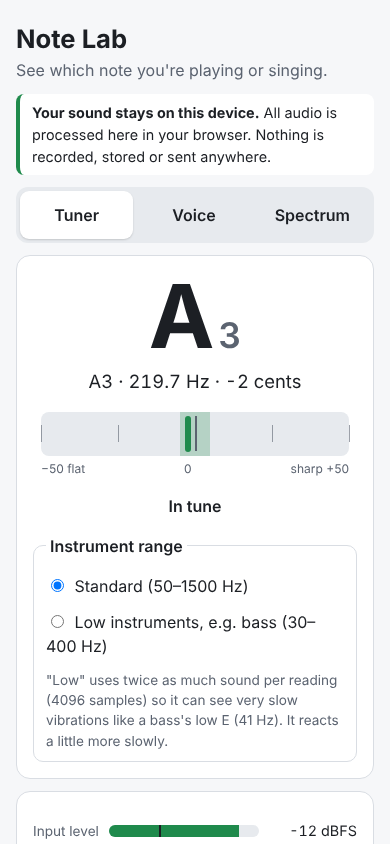
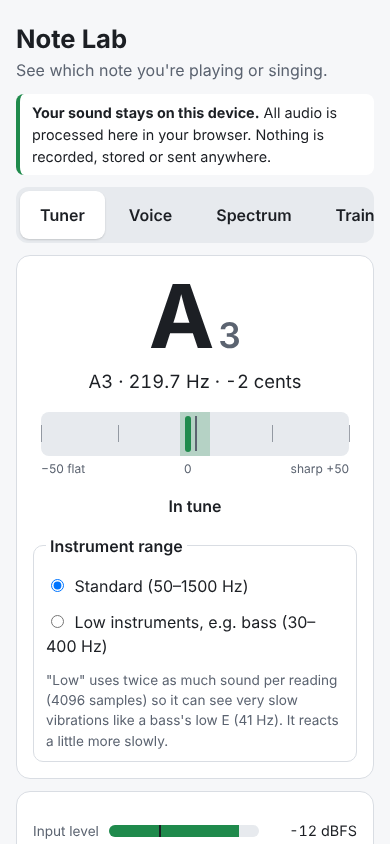
Add browser checks for ear training
Answers are checked against the frequencies actually played; scores
survive a reload; sing-back with a fake microphone singing C4 and
E4 (330 Hz) scores 0 and +2 cents.

Claude-Session: https://claude.ai/code/session_01SxLsZFKHC9uUtv3xK6kA73

Changed region(s): [[0.3385, 0.2464, 0.9538, 0.2773], [0.0923, 0.2464, 0.2769, 0.2773]]

diff --git a/tools/browser-test.js b/tools/browser-test.js
@@ -196,6 +196,75 @@ try {
     await browser.close();
   }
 
+  // 1f. Ear training: notes and intervals (no microphone needed).
+  {
+    const { browser, page, errors } = await openPage([], []);
+    // Record every frequency the page plays, so the test knows the right answer.
+    await page.evaluate(() => {
+      window.__played = [];
+      const original = AudioContext.prototype.createOscillator;
+      AudioContext.prototype.createOscillator = function () {
+        const osc = original.call(this);
+        const start = osc.start.bind(osc);
+        osc.start = (when) => { window.__played.push(osc.frequency.value); start(when); };
+        return osc;
+      };
+    });
+    const nameOf = (hz) => ['C', 'C#', 'D', 'D#', 'E', 'F', 'F#', 'G', 'G#', 'A', 'A#', 'B'][((Math.round(69 + 12 * Math.log2(hz / 440)) % 12) + 12) % 12];
+
+    await page.click('#tab-ear');
+    report(await page.isVisible('#ear-notes') && !(await page.isVisible('#start-panel')), 'train: opens without the microphone');
+
+    await page.click('#note-play');
+    let played = await page.evaluate(() => window.__played);
+    report(Math.abs(played[0] - 261.63) < 0.01 && played.length === 2, 'train: plays C4 reference, then the note', JSON.stringify(played.map((f) => f.toFixed(1))));
+    await page.click(`#note-answers button[data-key="${nameOf(played[1])}"]`);
+    const right = await page.textContent('#note-feedback');
+    await page.evaluate(() => { window.__played = []; });
+    await page.click('#note-play');
+    played = await page.evaluate(() => window.__played);
+    const wrongName = nameOf(played[1]) === 'C' ? 'D' : 'C';
+    await page.click(`#note-answers button[data-key="${wrongName}"]`);
+    const wrong = await page.textContent('#note-feedback');
+    const total = await page.textContent('#note-stats tfoot');
+    report(right.startsWith('Correct') && wrong.startsWith('Not quite') && total.includes('1 / 2'),
+      'train: note answers are scored', `"${right.slice(0, 30)}…" / "${wrong.slice(0, 40)}…" / total ${total.trim()}`);
+
+    await page.click('#ear-mode-intervals');
+    await page.evaluate(() => { window.__played = []; });
+    await page.click('#interval-play');
+    played = await page.evaluate(() => window.__played);
+    const semitones = Math.round(Math.abs(12 * Math.log2(played[1] / played[0])));
+    await page.click(`#interval-answers button[data-key="${semitones}"]`);
+    const intervalFeedback = await page.textContent('#interval-feedback');
+    report(intervalFeedback.startsWith('Correct') && intervalFeedback.includes('Memory aid'),
+      'train: interval answer is scored', `${semitones} semitones → "${intervalFeedback.slice(0, 60)}…"`);
+
+    // Scores are saved on the device and come back after a reload.
+    await page.reload();
+    await page.click('#tab-ear');
+    const saved = await page.textContent('#note-stats tfoot');
+    report(saved.includes('1 / 2') && !errors.length, 'train: scores survive a reload', `${saved.trim()}${errors.length ? ` errors: ${errors}` : ''}`);
+    await browser.close();
+  }
+
+  // 1g. Sing-back: target fixed to C4, the "microphone" sings a C4 sine (and E4 at 330 Hz = +2 cents).
+  for (const [file, targetIndex, expected] of [['sine-C4.wav', 7, /^Excellent.*\(0 cents from C4\)/], ['sine-E4-330Hz.wav', 9, /^Excellent.*\(\+2 cents from E4\)/]]) {
+    const { browser, page, errors } = await fakeMic(file);
+    await page.click('#tab-ear');
+    await page.click('#ear-mode-singback');
+    report(await page.isVisible('#singback-need-mic') && await page.isDisabled('#singback-play'), `sing-back (${file}): asks for the microphone first`);
+    await page.click('#singback-start-mic');
+    await page.waitForSelector('#singback-play:not([disabled])', { timeout: 5000 });
+    await page.evaluate((i) => { Math.random = () => (i + 0.5) / 12; }, targetIndex); // mid targets: C3 D3 E3 F3 G3 A3 B3 C4 D4 E4 F4 G4
+    await page.click('#singback-play');
+    await page.waitForFunction(() => document.getElementById('singback-result').textContent.length > 0, null, { timeout: 12000 });
+    const result = await page.textContent('#singback-result');
+    report(expected.test(result) && !errors.length, `sing-back (${file}): scored`, `"${result}"`);
+    if (file === 'sine-E4-330Hz.wav') await page.locator('#ear').screenshot({ path: `${ROOT}docs/screenshots/singback.png` });
+    await browser.close();
+  }
+
   // 2. Permission denied. Headless Chromium has no permission prompt to refuse, so we
   //    make getUserMedia fail with the same error a real "Don't Allow" gives (NotAllowedError).
   {
